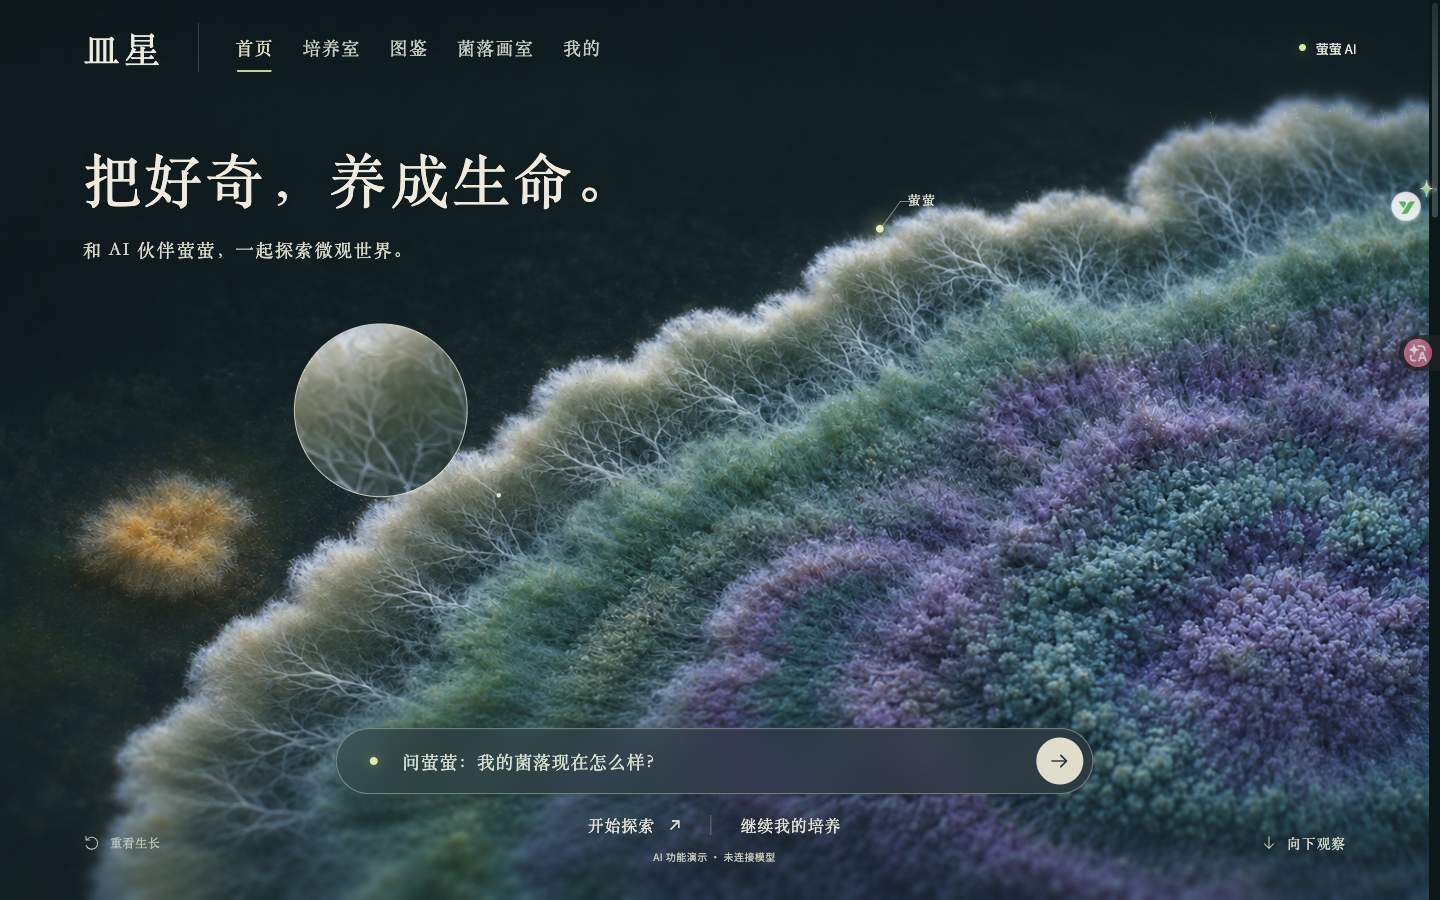
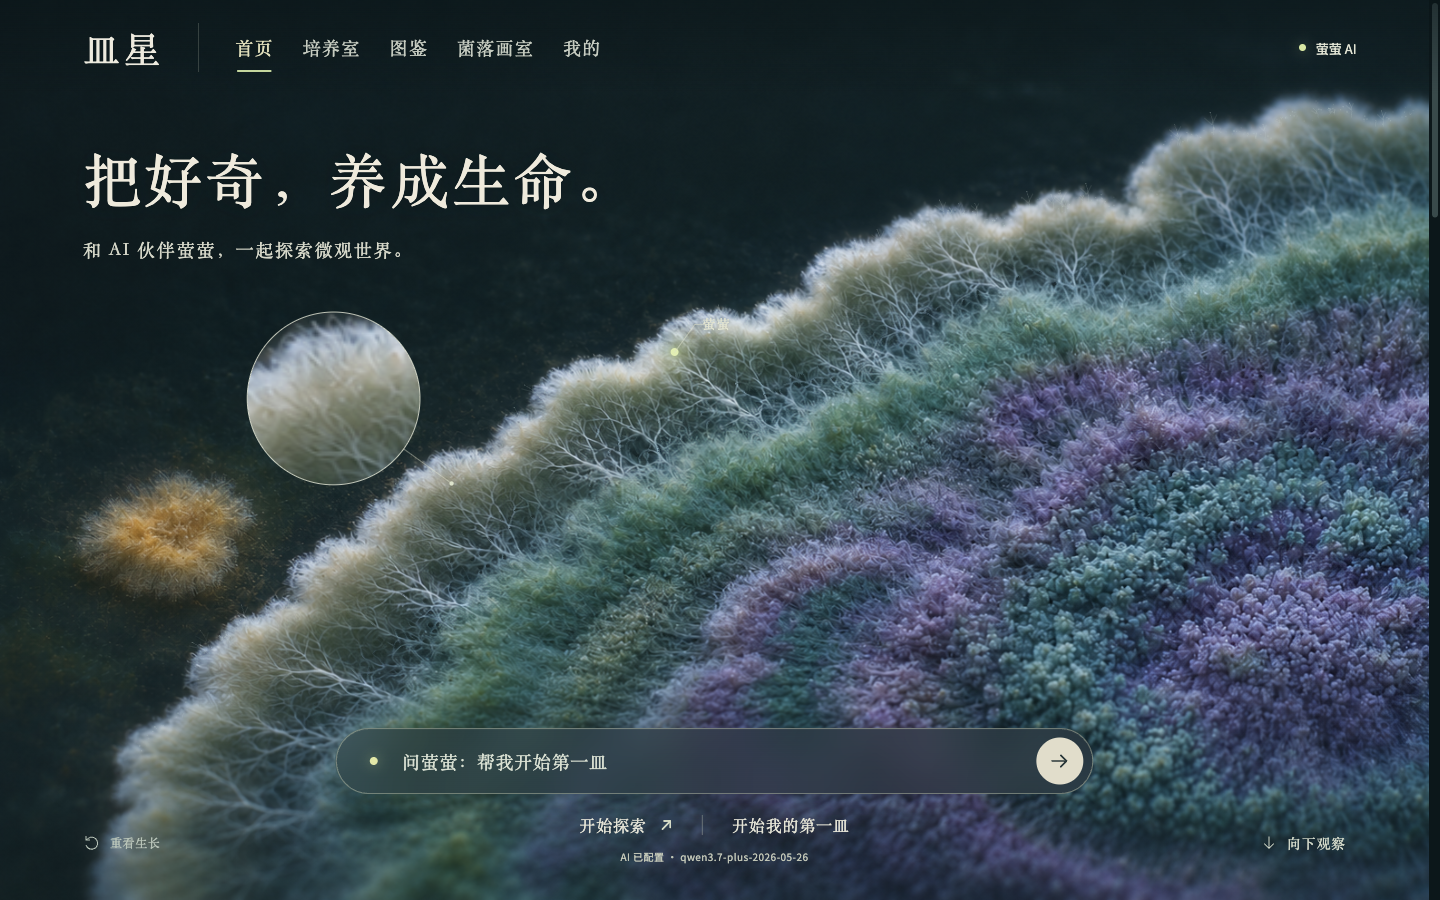
Replace home showcase with clean current screenshot

diff --git a/README.md b/README.md
@@ -6,7 +6,7 @@
 
 **当前阶段：在线真实模型试用。首页和培养室通过云端 Cloudflare Worker 调用 Qwen，读取提问时的培养快照。培养数值、推荐配置和条件试算仍由本地教学程序提供，不代表真实实验测量或经验证的生物学预测。**
 
-![皿星首页](docs/screenshots/home-desktop.png)
+![皿星首页](docs/screenshots/home-desktop.png?v=20261110-clean)
 
 ## 版本说明
 
